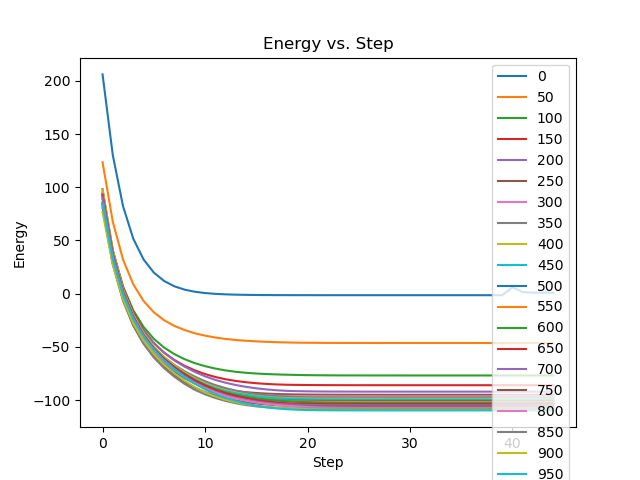
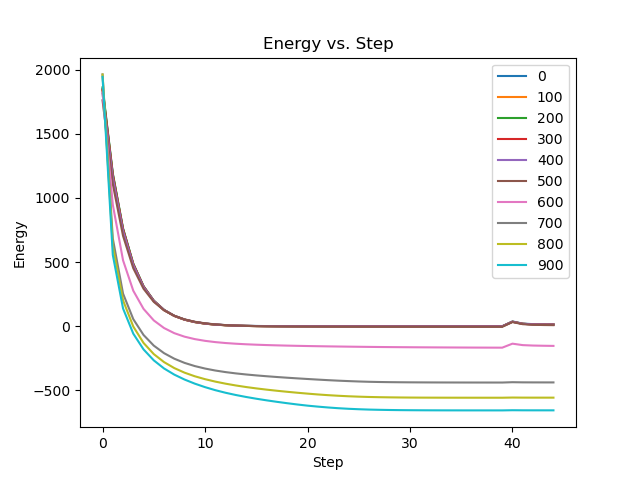
Increased learning rate

diff --git a/main.py b/main.py
@@ -59,7 +59,7 @@ model = HopfieldEnergy(input_size, hidden1_size, hidden2_size, output_size, beta
 
 print("beta: ",beta)
 print("learning_rate: ",learning_rate)
-
+error = []
 for itr in range(n_iters):
     energies = []  # List to store the energy values
 
@@ -96,6 +96,7 @@ for itr in range(n_iters):
         print("Output: ",y_free)
         print("Error: ",(y_free-target).pow(2).sum())
 
+    error.append((y_free-target).pow(2).sum())
     # if itr>5:
     #     assert(0)
 
@@ -135,7 +136,7 @@ for itr in range(n_iters):
     model.b2.weight.data += learning_rate * b2_update
     model.b3.weight.data += learning_rate * b3_update
 
-    if itr%50==0:
+    if itr%100==0:
         # Plot the energies
         plt.plot(energies,label=str(itr))
         plt.xlabel('Step')
@@ -143,5 +144,14 @@ for itr in range(n_iters):
         plt.title('Energy vs. Step')
         plt.legend()
         plt.savefig('energy_vs_step.png')
+
+        # Plot the error
+        plt.figure()
+        plt.plot(error)
+        plt.xlabel('Iteration')
+        plt.ylabel('Error')
+        plt.title('Error vs. Iteration')
+        plt.savefig('error_vs_iteration.png')
+        plt.close()
             
         
